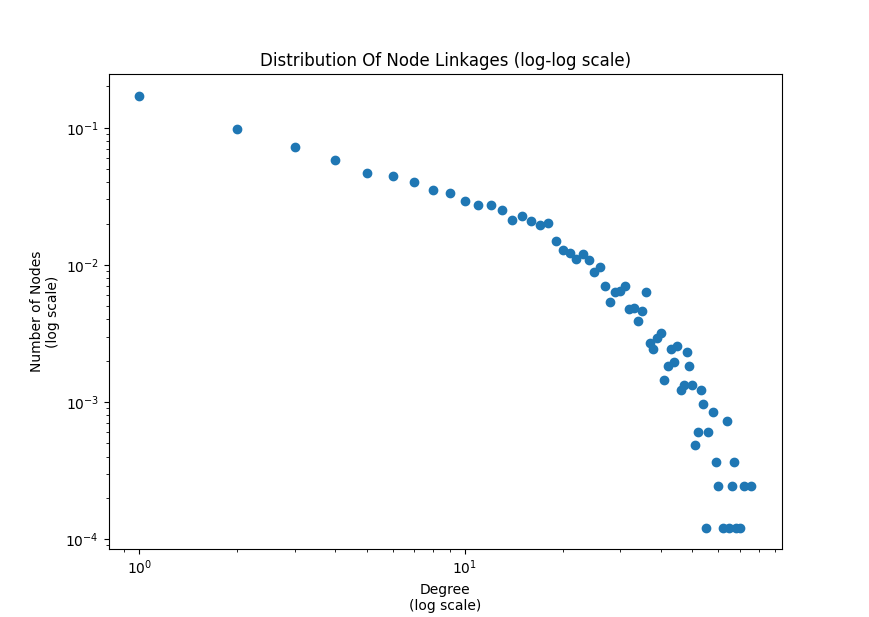
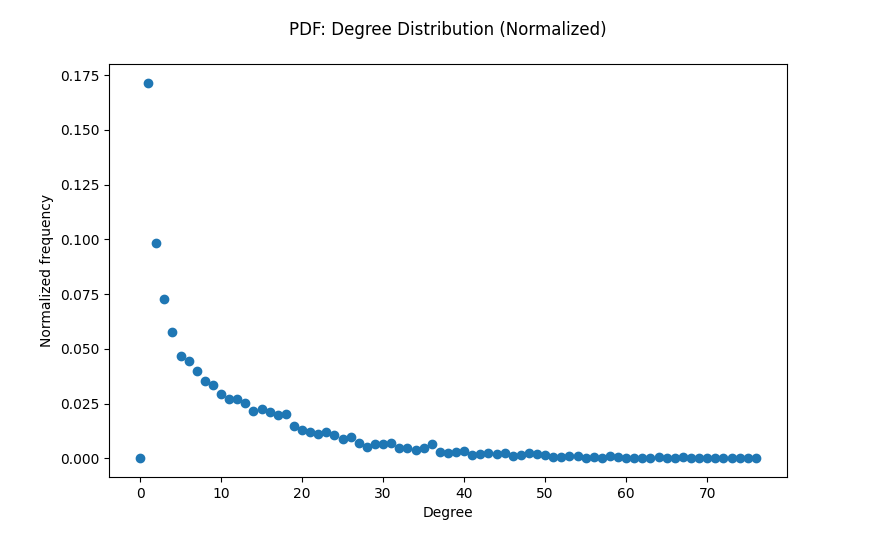
Add Histograms

diff --git a/Project.py b/Project.py
@@ -3,10 +3,11 @@ import matplotlib.pyplot as plt
 import pandas as pd
 import json
 import numpy as np
+from collections import Counter
 
 FEATURES = ['ID', 'Severity', 'Zipcode', 'Sunrise_Sunset', 'Temperature(F)', 'Humidity(%)', 'Pressure(in)',
             'Visibility(mi)', 'Wind_Speed(mph)', 'Precipitation(in)', 'Weather_Condition']
-THRESHOLD = 7
+THRESHOLD = 8
 FILE_NAME = 'US_Accidents_Dec21_updated.csv'
 VALID_DATA = 'f10000_valid_data.csv'
 EDGE_DICT = f'edge_dict_{THRESHOLD}.json'
@@ -94,18 +95,25 @@ def read_graph_from_GML(filename):
 undirect_G = read_graph_from_GML(f'threshold_{THRESHOLD}.gml')
 
 sum = 0
+print(nx.info(undirect_G))
 for node, degree in nx.degree(undirect_G):
     sum += degree
 average_degree = sum / undirect_G.number_of_nodes()
-# average_path_length = nx.average_shortest_path_length(undirect_G)
-# diameter = nx.diameter(undirect_G)
-average_clustering = nx.average_clustering(undirect_G)
-global_clustering = nx.transitivity(undirect_G)
 print("average degree: ", average_degree)
-# print("average path length: ", average_path_length)
-# print("diameter: ", diameter)
+average_clustering = nx.average_clustering(undirect_G)
 print("average clustering: ", average_clustering)
+global_clustering = nx.transitivity(undirect_G)
 print("global clustering: ", global_clustering)
+connected_components = sorted(
+    nx.connected_components(undirect_G), key=len, reverse=True)
+print("Number of connected components: ", len(connected_components))
+max_size = 0
+largest_component = None
+for component in nx.connected_components(undirect_G):
+    if len(component) > max_size:
+        max_size = len(component)
+        largest_component = component
+print("Size of largest component: ", max_size)
 
 
 def CCDF(nums):
@@ -117,7 +125,7 @@ def CCDF(nums):
     return ccdf
 
 
-def plot_CDDF(g):
+def plot_CDDF(g, log_scale=False):
     degree_dict = nx.degree_histogram(g)
     np_array = np.array(degree_dict)
     ents = []
@@ -127,15 +135,21 @@ def plot_CDDF(g):
         nums.append(count)
     ccdf = CCDF(nums)
     plt.plot(ents, ccdf)
-    plt.xlabel('Degree')
-    plt.ylabel('CCDF')
-    plt.xscale("log")
-    plt.yscale("log")
-    plt.title('CCDF of Degree Distribution')
+
+    if log_scale:
+        plt.title('CCDF of degree distribution (log scale)')
+        plt.xscale('log')
+        plt.yscale('log')
+        plt.xlabel('Degree\n(log scale)')
+        plt.ylabel('CCDF\n(log scale)')
+    else:
+        plt.title('CCDF of degree distribution')
+        plt.xlabel('Degree')
+        plt.ylabel('CCDF')
     plt.show()
 
 
-def plot_PDF(g, normalized=True):
+def plot_PDF(g, normalized=True, log_scale=False):
     print("Creating histogram...")
     aux_y = nx.degree_histogram(g)
 
@@ -147,14 +161,106 @@ def plot_PDF(g, normalized=True):
         for i in range(len(aux_y)):
             aux_y[i] = aux_y[i]/n_nodes
 
-        plt.title('\nDistribution Of Node Linkages (log-log scale)')
-        plt.xlabel('Degree\n(log scale)')
-        plt.ylabel('Number of Nodes\n(log scale)')
-        plt.xscale("log")
-        plt.yscale("log")
+        if log_scale:
+            plt.title('\nPDF of Degree Distribution (Normalized) (Log Scale)\n')
+            plt.ylabel('Normalized log-log frequency')
+            plt.xlabel('Degree\n(log scale)')
+            plt.xscale('log')
+            plt.yscale('log')
+        else:
+            plt.title('\nPDF: Degree Distribution (Normalized)\n')
+            plt.ylabel('Normalized frequency')
+            plt.xlabel('Degree')
         plt.plot(aux_x, aux_y, 'o')
         plt.show()
 
 
-plot_PDF(undirect_G)
-plot_CDDF(undirect_G)
+# plot_PDF(undirect_G, log_scale=False)
+# plot_PDF(undirect_G, log_scale=True)
+# plot_CDDF(undirect_G, log_scale=False)
+# plot_CDDF(undirect_G, log_scale=True)
+
+acc_df = read_data(VALID_DATA)
+feature = "Temperature(F)"
+print(acc_df.groupby([feature])[feature].count().nlargest(5))
+# temperature_list = acc_df["Temperature(F)"].values.tolist()
+# plt.hist(temperature_list, bins=150)
+# plt.title(f'Histogram of Temperature(F)')
+# plt.xlabel("Temperature(F)")
+# plt.ylabel('Frequency')
+# plt.show()
+
+# humidity_list = acc_df["Humidity(%)"].values.tolist()
+# plt.hist(humidity_list, bins=100)
+# plt.title(f'Histogram of Humidity(%)')
+# plt.xlabel("Humidity(%)")
+# plt.ylabel('Frequency')
+# plt.show()
+
+# pressure_list = acc_df["Pressure(in)"].values.tolist()
+# plt.hist(pressure_list, bins=150, range=(28.5, 31.0))
+# plt.title(f'Histogram of Pressure(in)')
+# plt.xlabel("Pressure(in)")
+# plt.ylabel('Frequency')
+# plt.show()
+
+visibility_list = acc_df["Visibility(mi)"].values.tolist()
+print(len(visibility_list))
+plt.hist(visibility_list, bins=50, range=(0, 15))
+plt.title(f'Histogram of Visibility(mi)')
+plt.xlabel("Visibility(mi)")
+plt.ylabel('Frequency')
+plt.show()
+
+# visibility_list = acc_df["Visibility(mi)"].values.tolist()
+# visibility_counts = Counter(visibility_list)
+
+
+# wind_speed_list = acc_df["Wind_Speed(mph)"].values.tolist()
+# print(len(wind_speed_list))
+# plt.hist(wind_speed_list, bins=50)
+# plt.title(f'Histogram of Wind_Speed(mph)')
+# plt.xlabel("Wind_Speed(mph)")
+# plt.ylabel('Frequency')
+# plt.show()
+
+# weather_condition_list = acc_df["Weather_Condition"].values.tolist()
+# weather_counts = Counter(weather_condition_list)
+# most_common_weather_type = [x[0] for x in weather_counts.most_common(8)]
+# counts = [x[1] for x in weather_counts.most_common(8)]
+# plt.bar(most_common_weather_type, counts)
+# plt.title(f'Histogram of Weather_Condition')
+# plt.xlabel("Weather_Condition")
+# plt.ylabel('Frequency')
+# plt.show()
+
+# sunrise_sunset_list = acc_df["Sunrise_Sunset"].values.tolist()
+# sunrise_sunset_counts = Counter(sunrise_sunset_list)
+# most_common_sunrise_sunset_type = [x[0]
+#                                    for x in sunrise_sunset_counts.most_common(4)]
+# counts = [x[1] for x in sunrise_sunset_counts.most_common(4)]
+# plt.bar(most_common_sunrise_sunset_type, counts)
+# plt.title(f'Histogram of Sunrise_Sunset')
+# plt.xlabel("Sunrise_Sunset")
+# plt.ylabel('Frequency')
+# plt.show()
+
+# severity_list = acc_df["Severity"].values.tolist()
+# severity_counts = Counter(severity_list)
+# most_common_severity_type = [x[0] for x in severity_counts.most_common(4)]
+# counts = [x[1] for x in severity_counts.most_common(4)]
+# plt.bar(most_common_severity_type, counts)
+# plt.title(f'Histogram of Severity')
+# plt.xlabel("Severity")
+# plt.ylabel('Frequency')
+# plt.show()
+
+# zipcode_list = acc_df["Zipcode"].values.tolist()
+# zipcode_counts = Counter(zipcode_list)
+# most_common_zipcode_type = [x[0] for x in zipcode_counts.most_common(30)]
+# counts = [x[1] for x in zipcode_counts.most_common(30)]
+# plt.bar(most_common_zipcode_type, counts)
+# plt.title(f'Histogram of Zipcode')
+# plt.xlabel("Zipcode")
+# plt.ylabel('Frequency')
+# plt.show()
